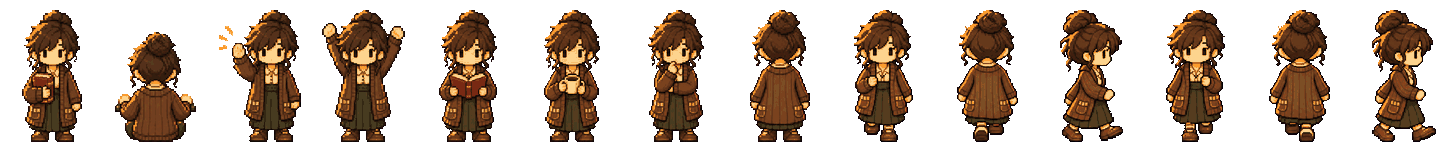
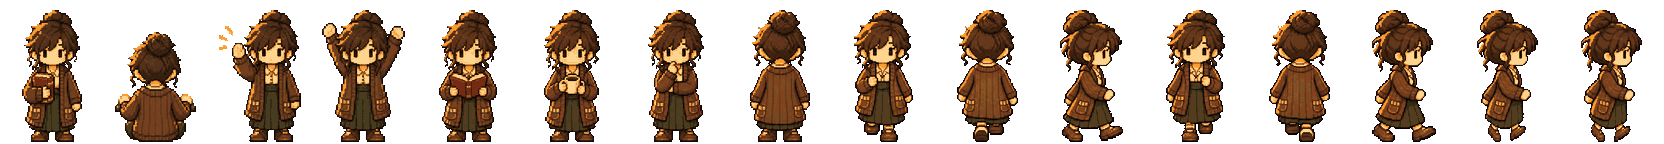
room: side-on walks have a passing step between strides, so the legs move instead of gliding

diff --git a/hearth/ui.html b/hearth/ui.html
@@ -19411,7 +19411,11 @@ function roomDraw(t) {
     const img = roomLook(skin, p.seed);
     let frame, flip = false;
     if (p.walking) {
-      const step = Math.floor(t / 210 + p.seed) % 2 ? 1 : 2;
+      // Four beats a stride: step, legs passing, the other step, passing.
+      // Side-on has its own passing frames; facing or away, the step is held.
+      const beat = Math.floor(t / 150 + p.seed * 4) % 4;
+      const side = p.walkDir === 'side' && ROOM.man && ROOM.man.frames.includes('walk_side_3');
+      const step = side ? [1, 3, 2, 4][beat] : (beat < 2 ? 1 : 2);
       frame = roomFrame(`walk_${p.walkDir}_${step}`, skin);
       flip = p.walkDir === 'side' && p.dir < 0;
     } else {
@@ -19423,7 +19427,9 @@ function roomDraw(t) {
       if (/^side_/.test(pose) && !roomHas(skin, pose) && FRAME_NEAREST[pose] === 'walk_side_1') flip = !flip;
     }
     const typing = !p.walking && p.goal && p.goal.pose === 'type';
-    const bob = typing ? Math.round(Math.sin(t / 130 + p.seed) * 1.3) : (!p.walking ? Math.round(Math.sin(t / 700 + p.seed) * 0.8) : 0);
+    // Walking, the body rises a little as the legs pass under it.
+    const passingBeat = p.walking && Math.floor(t / 150 + p.seed * 4) % 2 === 1;
+    const bob = typing ? Math.round(Math.sin(t / 130 + p.seed) * 1.3) : (!p.walking ? Math.round(Math.sin(t / 700 + p.seed) * 0.8) : (passingBeat ? -1.5 : 0));
     ctx.save();
     const low = !p.walking && p.goal && (p.goal.sit || p.goal.pose === 'tend_fire');
     const lift = typing ? SIT_LIFT : (low ? p.goal.lift || 0 : 0);

diff --git a/scripts/build_team_sprites.py b/scripts/build_team_sprites.py
@@ -37,7 +37,13 @@ FRAMES = [
     ("think", "act", 2, 2, 2), ("gaze", "act", 2, 2, 3),
     ("walk_down_1", "walk", 3, 2, 0), ("walk_up_1", "walk", 3, 2, 1), ("walk_side_1", "walk", 3, 2, 2),
     ("walk_down_2", "walk", 3, 2, 3), ("walk_up_2", "walk", 3, 2, 4), ("walk_side_2", "walk", 3, 2, 5),
+    # Both side steps were drawn mid-stride, so the legs never pass each other
+    # and the walk glides. These are the passing steps between them, made from
+    # each stride by drawing the legs in under the hips.
+    ("walk_side_3", "walk", 3, 2, -2), ("walk_side_4", "walk", 3, 2, -5),
 ]
+LEGS = 0.30            # the part of a side-on figure that is legs
+PASS_SQUEEZE = 0.5     # how far in the feet come at the passing step
 STAND_H = 132          # standing height in room pixels (the room is 1536 wide)
 CELL_W, CELL_H = 104, 144
 COLORS = 40
@@ -198,6 +204,36 @@ def quantize(img: Image.Image) -> Image.Image:
     return rgb
 
 
+def passing(cell: np.ndarray, bb):
+    """The passing step of a side-on stride: the legs drawn in towards the
+    hips, more the lower they go, so the feet come together under the body."""
+    x0, y0, x1, y1 = bb
+    fig = cell[y0:y1, x0:x1]
+    h, w = fig.shape[:2]
+    top = int(h * (1 - LEGS))
+    out = fig.copy()
+    cols = np.nonzero(fig[top - 1, :, 3] > 0)[0]
+    cx = (cols.min() + cols.max()) / 2 if len(cols) else w / 2
+    xs = np.arange(w)
+    for y in range(top, h):
+        k = 1 - (1 - PASS_SQUEEZE) * ((y - top) / max(1, h - 1 - top)) ** 0.8
+        src = np.rint(cx + (xs - cx) / k).astype(int)
+        ok = (src >= 0) & (src < w)
+        row = np.zeros_like(fig[y])
+        row[ok] = fig[y, src[ok]]
+        out[y] = row
+    return out, bbox(out)
+
+
+def frame_of(frames, idx):
+    """A frame by its source cell; a negative index is the passing step made
+    from that stride."""
+    if idx >= 0:
+        return frames[idx]
+    cell, bb = frames[-idx]
+    return passing(cell, bb) if bb else (cell, bb)
+
+
 def extra_main(art: str, target: float, sheet: str = "17.png", keep=None):
     """A main character's further poses (two rows of six), each in a cell of
     its own, at the scale of the standing frames. `keep` names the ones to use."""
@@ -221,13 +257,14 @@ def second_main(art: str):
     path = os.path.join(art, "18.png")
     if not os.path.isfile(path):
         return None
-    frames = strip_frames(key_magenta(Image.open(path)), len(FRAMES))
+    frames = strip_frames(key_magenta(Image.open(path)), len(FRAMES) - 2)
     names = [f[0] for f in FRAMES]
     # His walk was drawn direction by direction (down, down, up, up, side,
     # side); everyone else's goes step by step (down, up, side, then again).
     drawn = ["walk_down_1", "walk_down_2", "walk_up_1", "walk_up_2", "walk_side_1", "walk_side_2"]
     walk = {name: frames[8 + k] for k, name in enumerate(drawn)}
     frames = [walk.get(n, f) for n, f in zip(names, frames)]
+    frames += [passing(*walk["walk_side_1"]), passing(*walk["walk_side_2"])]
     scale = STAND_H * 1.06 / standing_height(frames, {0, 4, 5, 6, 7})
     atlas = Image.new("RGBA", (CELL_W * len(FRAMES), CELL_H), (0, 0, 0, 0))
     for i, (cell, bb) in enumerate(frames):
@@ -273,7 +310,7 @@ def build(art: str) -> None:
         target = STAND_H * (1.06 if role == "main" else 1.0)
         atlas = Image.new("RGBA", (CELL_W * len(FRAMES), CELL_H), (0, 0, 0, 0))
         for i, (_, sheet, _c, _r, idx) in enumerate(FRAMES):
-            cell, bb = sheets[sheet][idx]
+            cell, bb = frame_of(sheets[sheet], idx)
             if not bb:
                 continue
             atlas.alpha_composite(place(cell, bb, target / ref[sheet]), (i * CELL_W, 0))

diff --git a/tests/test_team_sprites.py b/tests/test_team_sprites.py
@@ -1,0 +1,50 @@
+"""The Team room's walk cycles: side-on, the legs pass each other between steps."""
+from __future__ import annotations
+
+import json
+import os
+import sys
+
+import numpy as np
+from PIL import Image
+
+ROOT = os.path.dirname(os.path.dirname(os.path.abspath(__file__)))
+TEAM = os.path.join(ROOT, "assets", "team")
+failed = 0
+
+
+def check(label, cond):
+    global failed
+    print(("PASS " if cond else "FAIL ") + label)
+    if not cond:
+        failed += 1
+
+
+man = json.load(open(os.path.join(TEAM, "manifest.json"), encoding="utf-8"))
+cw, ch = man["cell"]
+check("the atlas has a passing step after each side stride",
+      "walk_side_3" in man["frames"] and "walk_side_4" in man["frames"])
+
+
+def legs(atlas, name):
+    i = man["frames"].index(name)
+    a = np.asarray(atlas.crop((i * cw, 0, (i + 1) * cw, ch)))[..., 3] > 0
+    ys = np.nonzero(a.any(axis=1))[0]
+    lo = ys.max() - int((ys.max() - ys.min()) * 0.25)
+    return a[lo:ys.max() + 1]
+
+
+def spread(m):
+    """How far apart the feet are: the width of the lowest rows."""
+    xs = np.nonzero(m[-6:].any(axis=0))[0]
+    return xs.max() - xs.min() if len(xs) else 0
+
+
+if "walk_side_3" in man["frames"]:
+    for role in man["roles"]:
+        atlas = Image.open(os.path.join(TEAM, f"{role}.png")).convert("RGBA")
+        stride, passing = spread(legs(atlas, "walk_side_1")), spread(legs(atlas, "walk_side_3"))
+        check(f"{role}: the feet come together at the passing step ({stride} -> {passing} px)",
+              passing < stride * 0.75)
+
+sys.exit(1 if failed else 0)
